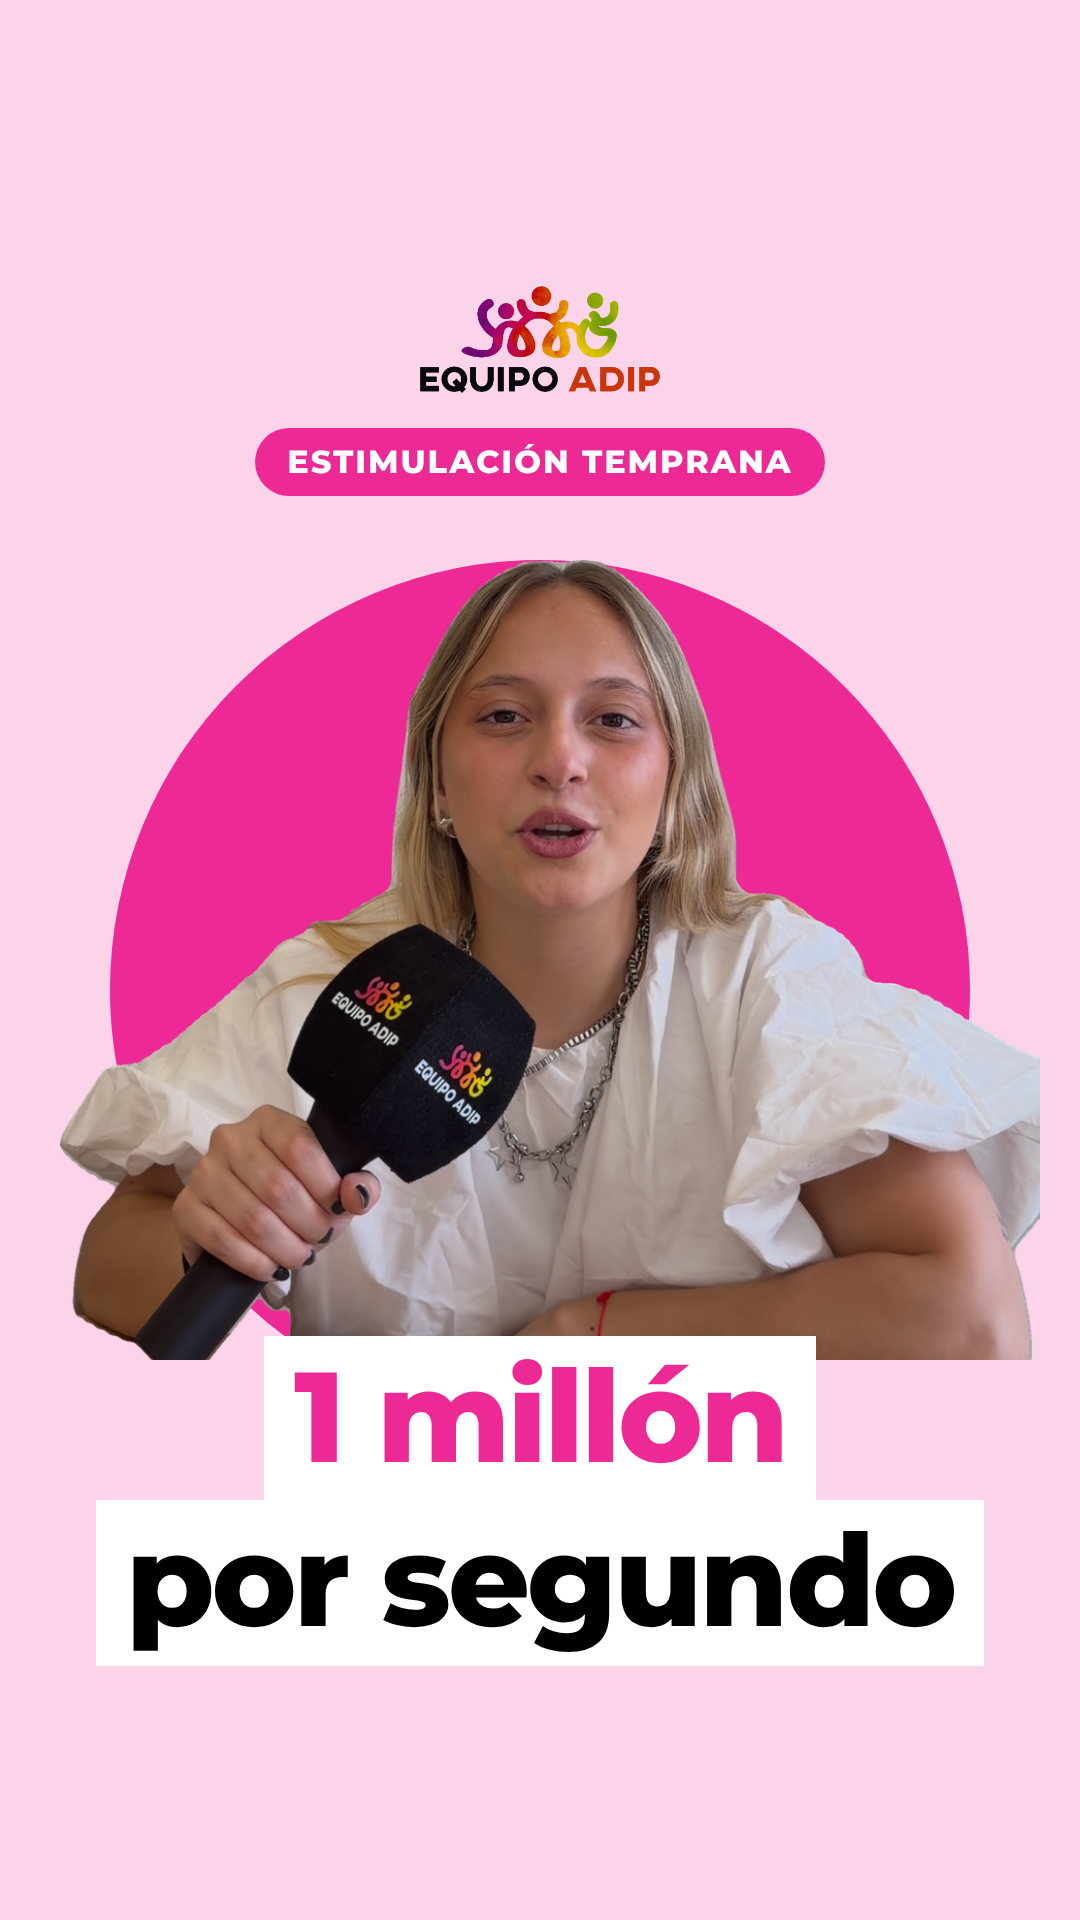
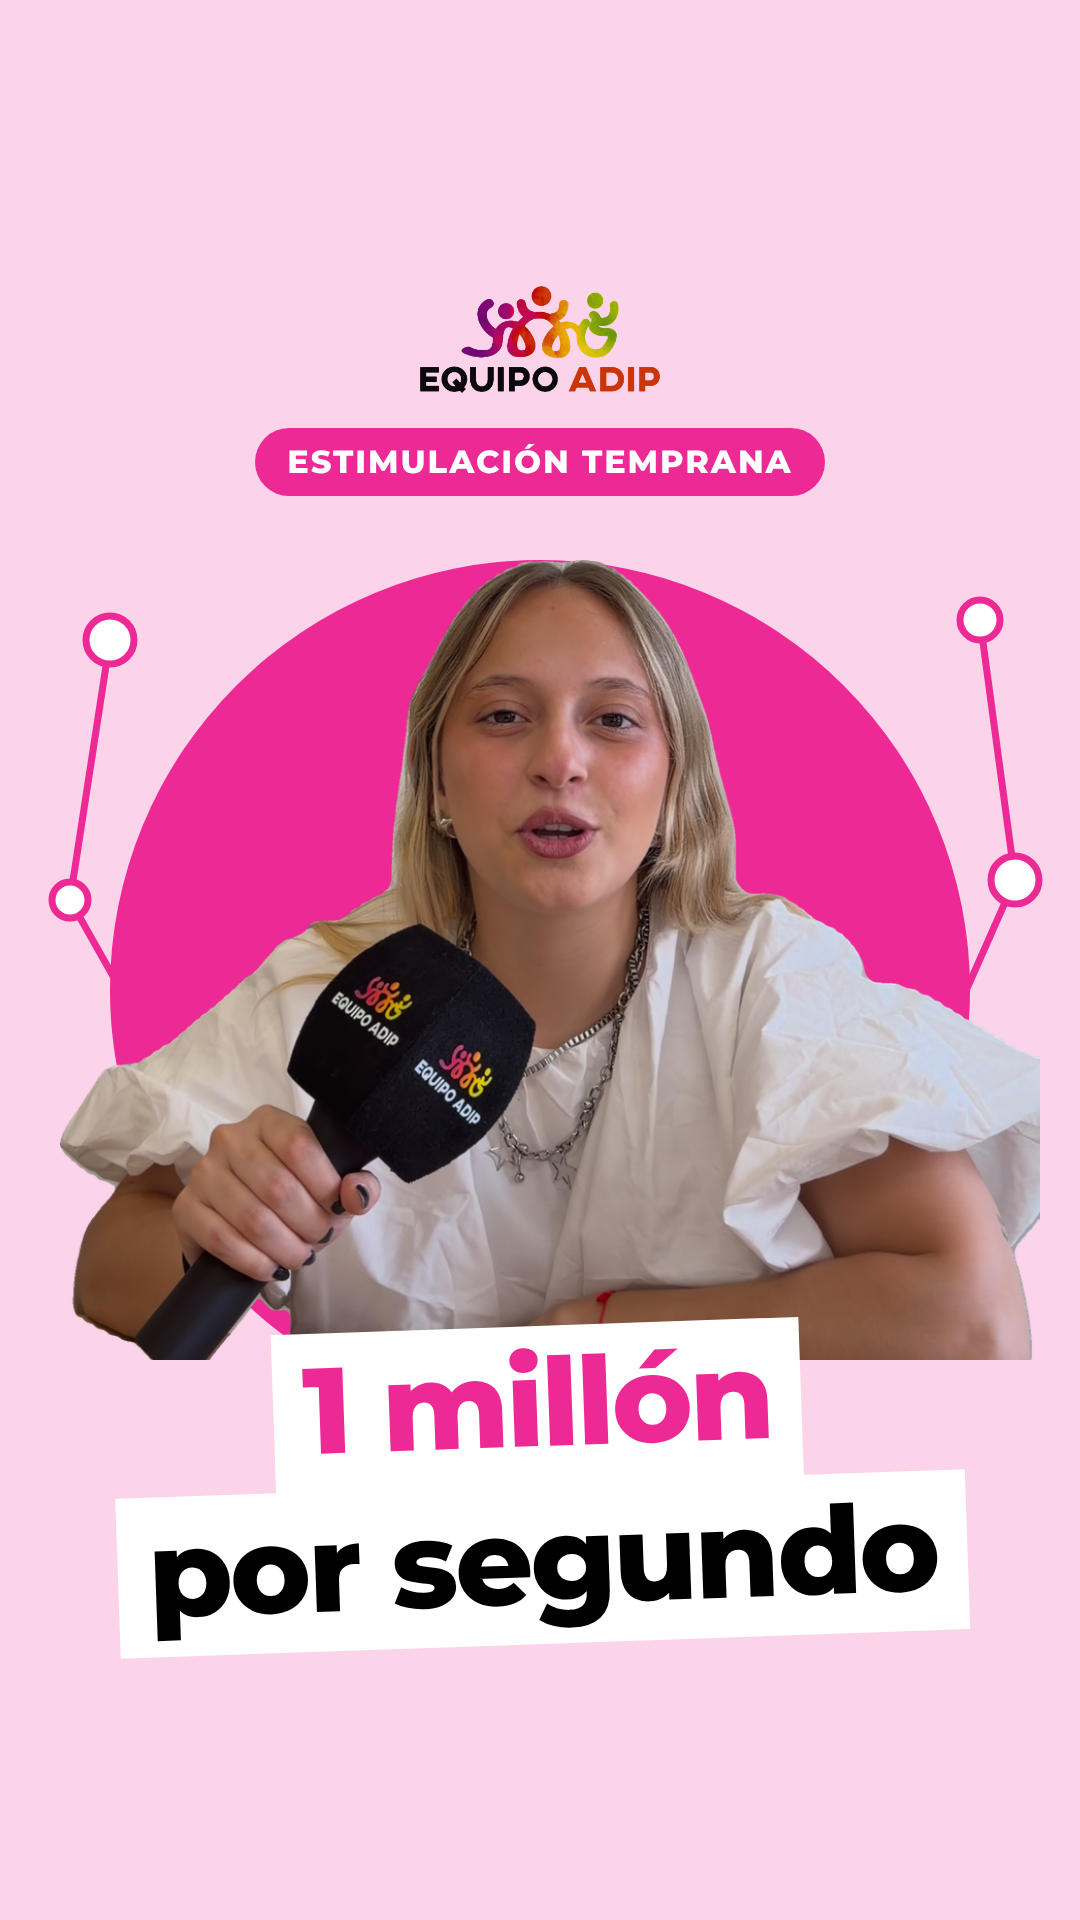
Reel Estimulación: portada actualizada y copy
Claude-Session: https://claude.ai/code/session_01M2LxgeZBKNGVK1wpzDWiMF

diff --git a/adip-reel/src/estim/Portada.tsx b/adip-reel/src/estim/Portada.tsx
@@ -8,12 +8,15 @@ const strip: React.CSSProperties = {
   color: P.ink,
   fontFamily: FONT,
   fontWeight: 800,
-  fontSize: 128,
+  fontSize: 122,
   lineHeight: 1,
   letterSpacing: '-0.025em',
   padding: '16px 30px 22px',
   whiteSpace: 'nowrap',
 };
+
+const PTS: [number, number, number][] = [[110, 640, 24], [70, 900, 18], [200, 1130, 20], [980, 620, 20], [1015, 880, 24], [900, 1140, 18]];
+const NET: [number, number][] = [[0, 1], [1, 2], [3, 4], [4, 5]];
 
 /** Reel cover. Everything that matters lives in the centred 1080 x 1440 grid crop (y 240 - 1680). */
 export const Portada: React.FC = () => (
@@ -25,12 +28,21 @@ export const Portada: React.FC = () => (
         ESTIMULACIÓN TEMPRANA
       </span>
     </div>
+    {/* conexiones: brand heads linked by lines, echoing the reel */}
+    <svg width={1080} height={1920} style={{position: 'absolute', inset: 0}}>
+      {NET.map(([a, b], k) => (
+        <line key={k} x1={PTS[a][0]} y1={PTS[a][1]} x2={PTS[b][0]} y2={PTS[b][1]} stroke={P.pink} strokeWidth={7} strokeLinecap="round" />
+      ))}
+      {PTS.map(([x, y, r], k) => (
+        <circle key={k} cx={x} cy={y} r={r} fill={P.white} stroke={P.pink} strokeWidth={7} />
+      ))}
+    </svg>
     {/* la cabeza: fuchsia circle behind Andy */}
     <div style={{position: 'absolute', left: 540 - 430, top: 560, width: 860, height: 860, borderRadius: '50%', background: P.pink}} />
     <div style={{position: 'absolute', left: 60, top: 560, width: 980, height: 800, overflow: 'hidden'}}>
       <Img src={staticFile('estim/andy-cut.png')} style={{width: 980}} />
     </div>
-    <div style={{position: 'absolute', left: 0, width: 1080, top: 1336, textAlign: 'center'}}>
+    <div style={{position: 'absolute', left: 0, width: 1080, top: 1326, textAlign: 'center', transform: 'rotate(-2deg)'}}>
       <div>
         <span style={strip}>
           <span style={{color: P.pink}}>1 millón</span>

diff --git a/adip-reel/estimulacion/salida/ADIP_estimulacion_copy.md b/adip-reel/estimulacion/salida/ADIP_estimulacion_copy.md
@@ -1,0 +1,36 @@
+# Copy · Reel "1 millón por segundo" · Estimulación temprana
+
+## Copy principal
+
+En lo que tardás en chasquear los dedos, el cerebro de un bebé arma más de un millón de conexiones nuevas. 🧠
+
+Pasa cada segundo, en los primeros años de vida. Y para que esas conexiones se armen no hace falta nada de otro mundo:
+
+→ Jugar
+→ Mirar a los ojos
+→ Hablar
+→ Responder cuando te busca
+
+Por eso los primeros años son clave. En Equipo ADIP, nuestro equipo de estimulación temprana acompaña el desarrollo de los más chiquitos desde el juego y el vínculo, siempre junto a la familia.
+
+¿Tenés dudas sobre cómo viene el desarrollo de tu bebé? No esperes. Comentá INFO y te escribimos.
+
+Fuente: Center on the Developing Child, Universidad de Harvard.
+
+#EstimulaciónTemprana #PrimeraInfancia #DesarrolloInfantil #Crianza #EquipoADIP
+
+## Versión corta
+
+Más de un millón de conexiones nuevas por segundo: eso arma el cerebro de un bebé en sus primeros años. 🧠
+
+¿Cómo se construyen? Jugando, mirándolo a los ojos, hablándole y respondiéndole cuando te busca.
+
+Si tenés dudas sobre el desarrollo de tu bebé, comentá INFO y te escribimos.
+
+Fuente: Center on the Developing Child, Universidad de Harvard.
+
+#EstimulaciónTemprana #PrimeraInfancia #DesarrolloInfantil #EquipoADIP
+
+## Texto de portada
+
+1 millón por segundo
